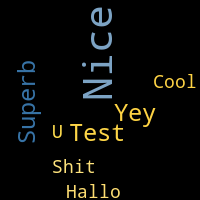
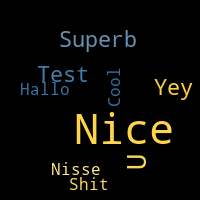
Added font

diff --git a/templates/index.html b/templates/index.html
@@ -14,27 +14,31 @@
 </head>
   
 <body>
+  <div class="main_card">
 
-    <form action="/" method="post">
-        <label for="adjective" class="text">Adjective:</label>
-        <br>
-        <br>
-        <input type="text" id="adjective" name="adjective">
-        <br>
-        <br>
-        <button type="submit">Add</button>
-    </form>
-    <br>
+    <div class="margin_container">
+      <form action="/" method="post">
+          <label for="adjective" class="text">Adjective:</label>
+          <br>
+          <br>
+          <input type="text" id="adjective" name="adjective">
+          <br>
+          <br>
+          <button type="submit">Add</button>
+      </form>
+      <br>
 
-    <button onclick="toggleTheme()">Switch Theme</button>
+      <button onclick="toggleTheme()">Switch Theme</button>
 
-      <h2 class="text">Thank you, here are some other things that were said about this website:</h2>
+        <h2 class="text">Thank you, here are some other things that were said about this website:</h2>
 
-    <img id="wordcloud" src="{{ url_for('static', filename='images/cloud_light.png') }}" 
-      alt="Wordcloud of the adjectives"  
-      height="200">
+      <img id="wordcloud" src="{{ url_for('static', filename='images/cloud_light.png') }}"
+        alt="Wordcloud of the adjectives"  
+        height="200">
 
-    <script src="{{ url_for('static', filename='script.js') }}"></script>
+      <script src="{{ url_for('static', filename='script.js') }}"></script>
 
+      </div>
+    </div>
 </body>
 </html>

diff --git a/static/style.css b/static/style.css
@@ -7,3 +7,30 @@ body {
     margin: 0;
 }
 
+@font-face {
+    font-family: "Aldo";
+    src: url("/static/fonts/AldotheApache.ttf") format("truetype");
+
+}
+
+.main_card {
+    padding: 20px;
+    width: 80vw;
+    min-height: 80vw;
+    margin-top: 40px;
+    margin-bottom: 40px;
+    border-radius: 20px;
+    
+}
+
+.margin_container {
+    padding-top: 20px;
+    display: flex;
+    flex-direction: column;
+    align-items: center;
+    font-family: "Aldo";
+}
+
+.text {
+    font-family: "Aldo";
+}

diff --git a/static/darkmode.css b/static/darkmode.css
@@ -27,3 +27,7 @@ button {
 button:hover {
   background-color: var(--primary-hover);
 }
+
+.main_card {
+    background-color: var(--surface);
+}
